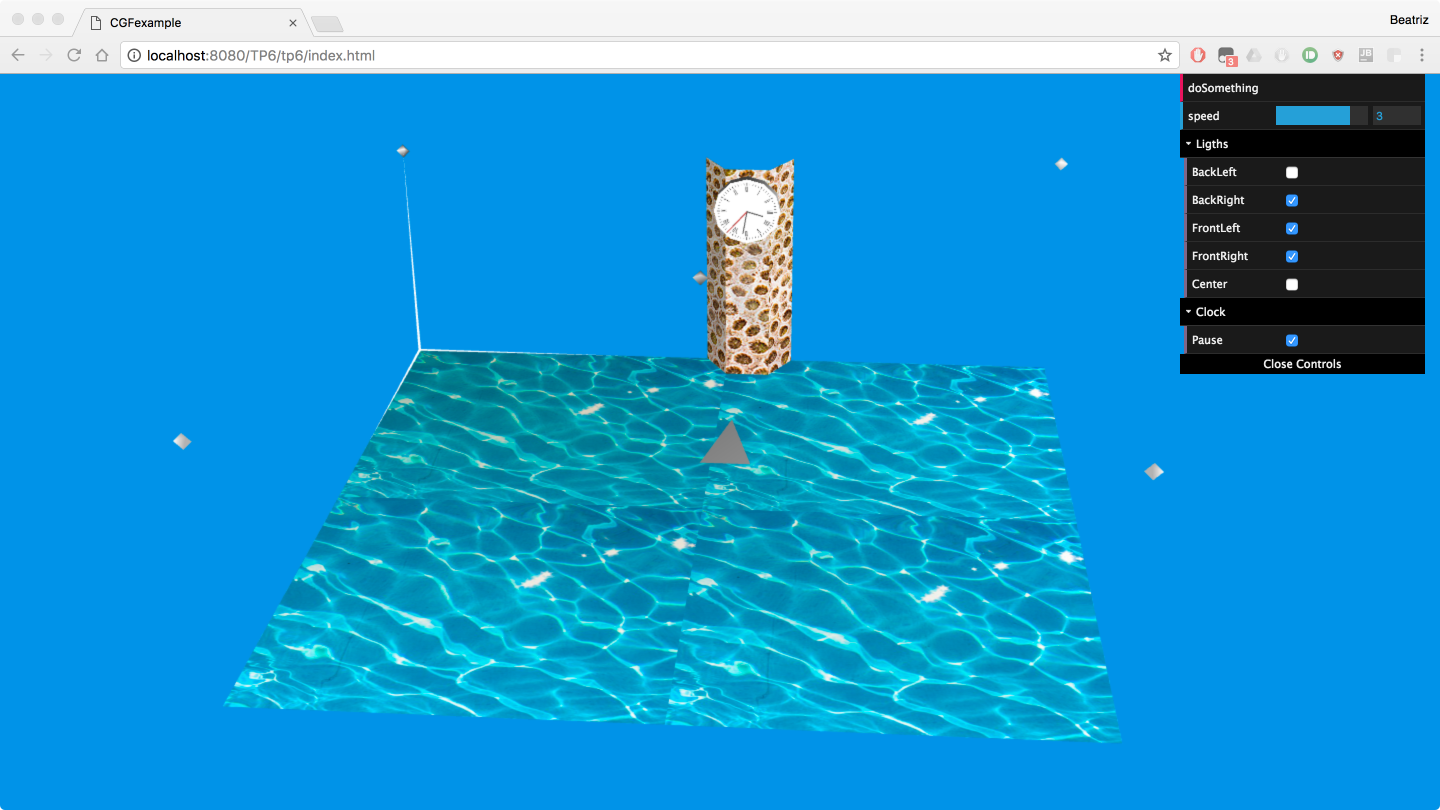
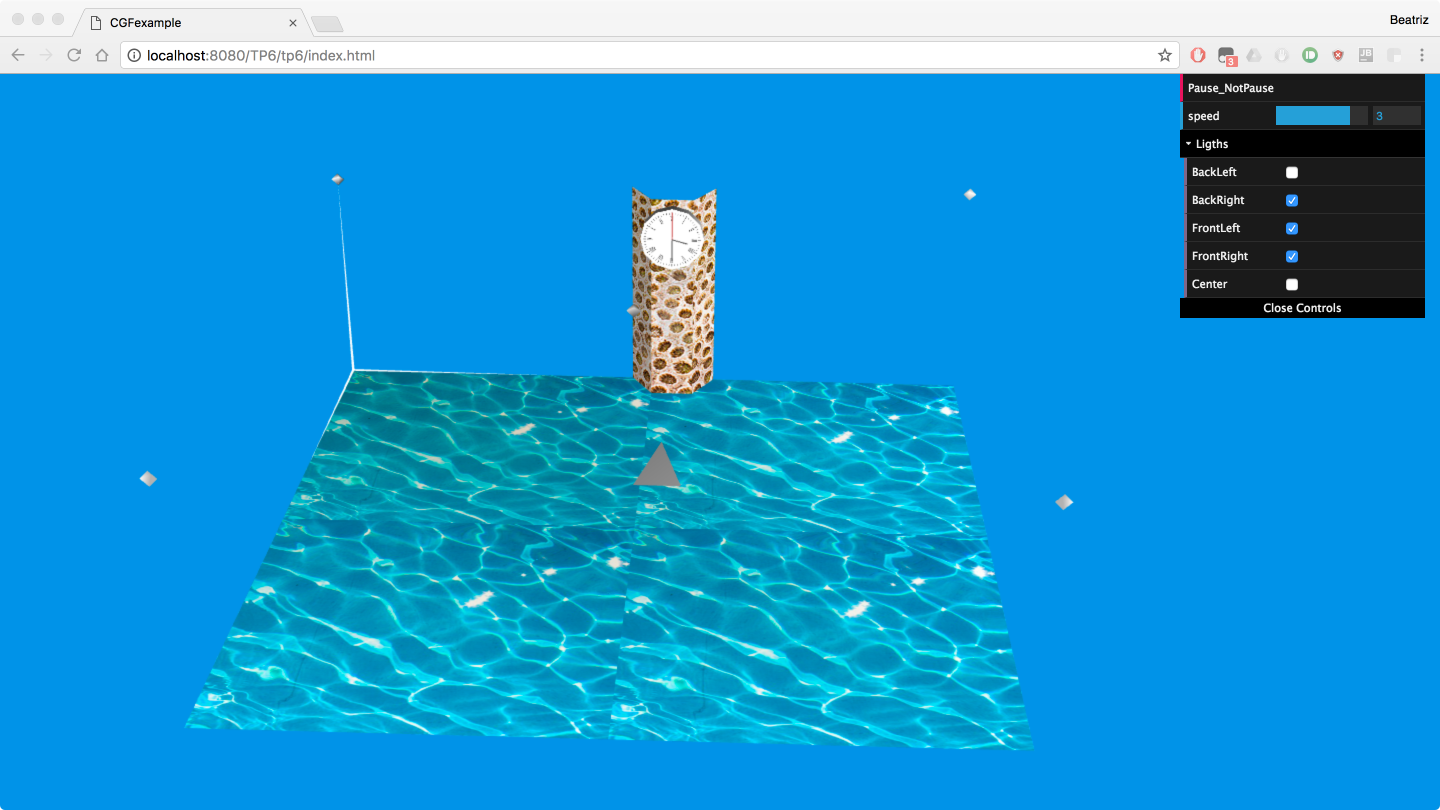
TP6 - exercicio 3 corrigido
- clock pause
       - check box substituido por botao

diff --git a/TP6/solucoes/CGFCode‐tp6‐T3G13‐3.2/tp6/MyInterface.js b/TP6/solucoes/CGFCode‐tp6‐T3G13‐3.2/tp6/MyInterface.js
@@ -30,7 +30,7 @@ MyInterface.prototype.init = function(application) {
 	// the identifier 'doSomething' must be a function declared as part of that object (i.e. a member of the scene class)
 	// e.g. LightingScene.prototype.doSomething = function () { console.log("Doing something..."); }; 
 
-	this.gui.add(this.scene, 'doSomething');	
+	this.gui.add(this.scene, 'Pause_NotPause');	
 
 	// add a slider
 	// must be a numeric variable of the scene, initialized in scene.init e.g.
@@ -53,13 +53,6 @@ MyInterface.prototype.init = function(application) {
 	group.add(this.scene, 'FrontLeft');
 	group.add(this.scene, 'FrontRight');
 	group.add(this.scene, 'Center');
-
-	//group 2 - Clock
-	
-	var group=this.gui.addFolder("Clock");
-	group.open();
-
-	group.add(this.scene, 'Pause');
 
 	return true;
 };

diff --git a/TP6/tp6/MyInterface.js b/TP6/tp6/MyInterface.js
@@ -30,7 +30,7 @@ MyInterface.prototype.init = function(application) {
 	// the identifier 'doSomething' must be a function declared as part of that object (i.e. a member of the scene class)
 	// e.g. LightingScene.prototype.doSomething = function () { console.log("Doing something..."); }; 
 
-	this.gui.add(this.scene, 'doSomething');	
+	this.gui.add(this.scene, 'Pause_NotPause');	
 
 	// add a slider
 	// must be a numeric variable of the scene, initialized in scene.init e.g.
@@ -53,13 +53,6 @@ MyInterface.prototype.init = function(application) {
 	group.add(this.scene, 'FrontLeft');
 	group.add(this.scene, 'FrontRight');
 	group.add(this.scene, 'Center');
-
-	//group 2 - Clock
-	
-	var group=this.gui.addFolder("Clock");
-	group.open();
-
-	group.add(this.scene, 'Pause');
 
 	return true;
 };

diff --git a/TP6/solucoes/CGFCode‐tp6‐T3G13‐3.2/tp6/LightingScene.js b/TP6/solucoes/CGFCode‐tp6‐T3G13‐3.2/tp6/LightingScene.js
@@ -66,12 +66,17 @@ LightingScene.prototype.init = function(application) {
 	this.FrontLeft = true;	//light 2
 	this.FrontRight = true;	//light 3
 	this.Center = true;		//light 4
-	this.Pause = true;		//clock
+	this.Pause=true;
 
 };
 
-LightingScene.prototype.doSomething = function() {
-	console.log("Doing something ... ");
+LightingScene.prototype.Pause_NotPause = function() {
+	//console.log("Doing something ... ");
+	if(this.Pause){
+		this.Pause=false;
+	}else{
+		this.Pause=true;
+	}
 };
 
 LightingScene.prototype.initCameras = function() {

diff --git a/TP6/tp6/LightingScene.js b/TP6/tp6/LightingScene.js
@@ -66,12 +66,17 @@ LightingScene.prototype.init = function(application) {
 	this.FrontLeft = true;	//light 2
 	this.FrontRight = true;	//light 3
 	this.Center = true;		//light 4
-	this.Pause = true;		//clock
+	this.Pause=true;
 
 };
 
-LightingScene.prototype.doSomething = function() {
-	console.log("Doing something ... ");
+LightingScene.prototype.Pause_NotPause = function() {
+	//console.log("Doing something ... ");
+	if(this.Pause){
+		this.Pause=false;
+	}else{
+		this.Pause=true;
+	}
 };
 
 LightingScene.prototype.initCameras = function() {
